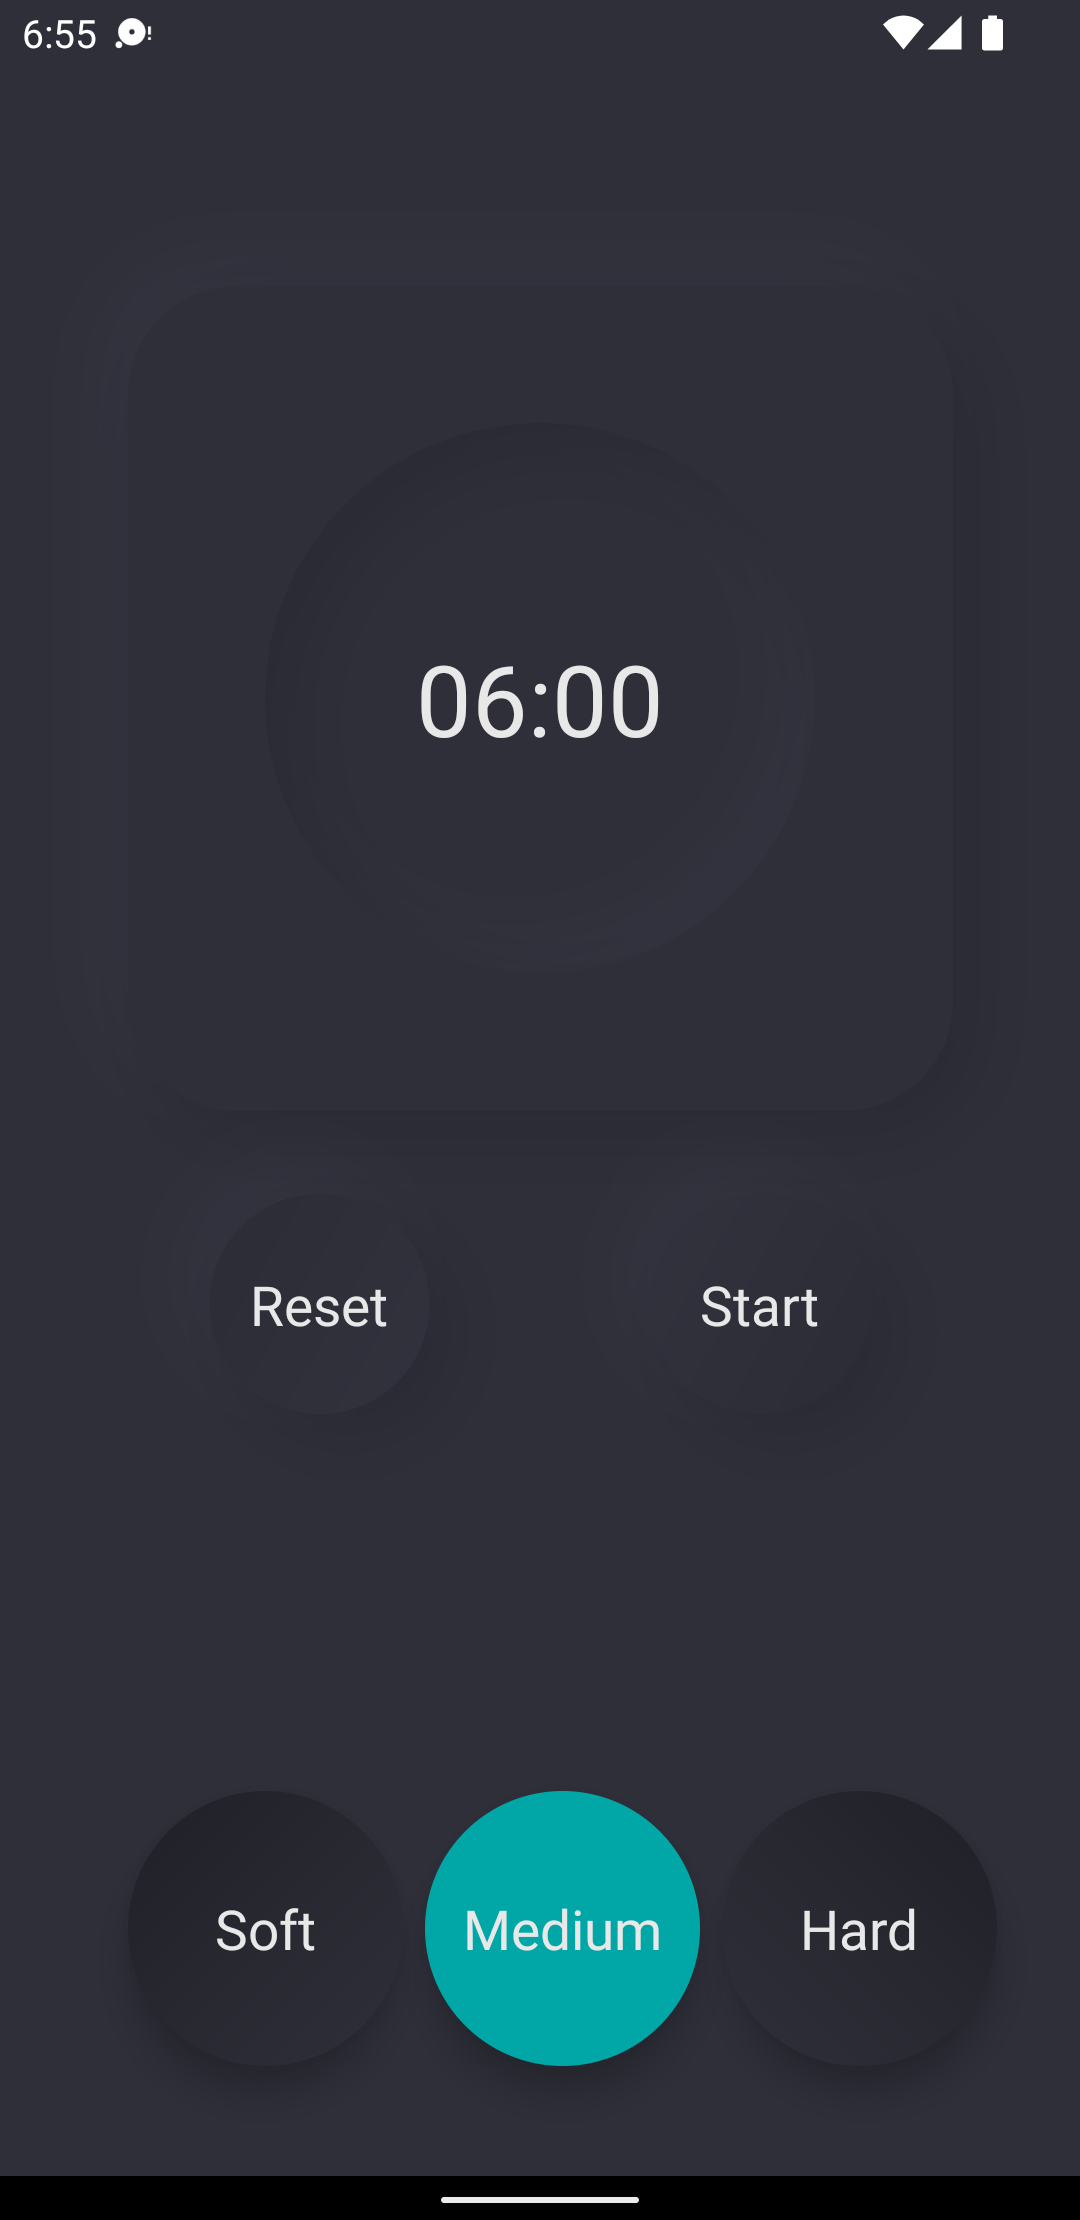
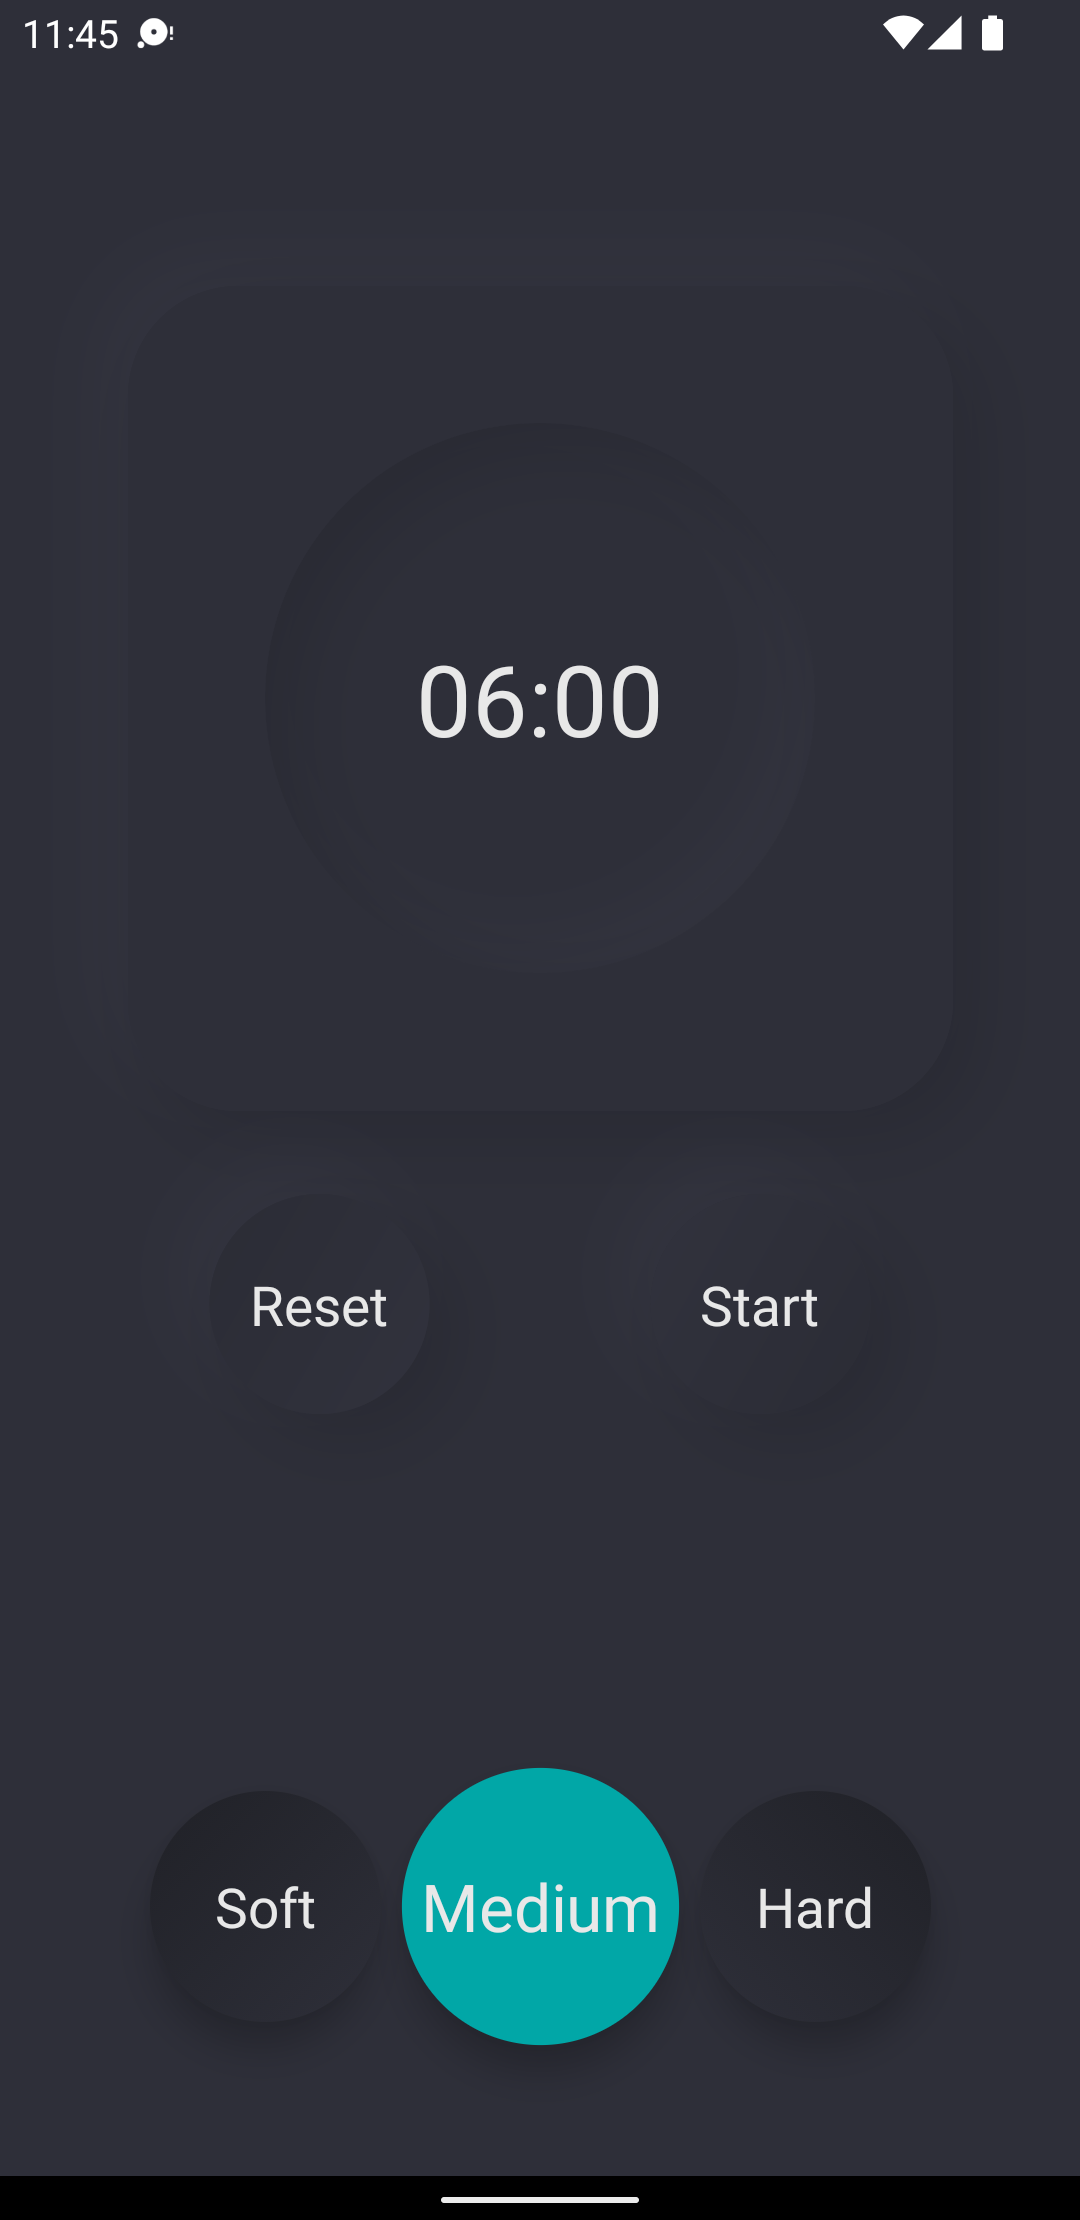
Add animation for radio buttons

diff --git a/app/src/main/java/com/tarikyasar/eggtimer/MainActivity.kt b/app/src/main/java/com/tarikyasar/eggtimer/MainActivity.kt
@@ -1,14 +1,18 @@
 package com.tarikyasar.eggtimer
 
+import android.annotation.SuppressLint
 import android.app.AlertDialog
 import android.media.MediaPlayer
 import androidx.appcompat.app.AppCompatActivity
 import android.os.Bundle
 import android.os.CountDownTimer
+import android.view.MotionEvent
+import android.view.View
+import android.view.animation.Animation
+import android.view.animation.AnimationUtils
 import com.borutsky.neumorphism.NeumorphicFrameLayout
 import com.tarikyasar.eggtimer.databinding.ActivityMainBinding
 import com.tarikyasar.eggtimer.utils.TimeUtils
-import java.text.SimpleDateFormat
 
 class MainActivity : AppCompatActivity() {
 
@@ -23,12 +27,40 @@ class MainActivity : AppCompatActivity() {
     private lateinit var timer: CountDownTimer
     private lateinit var mediaPlayer: MediaPlayer
 
+    // First one is previously selected radio button
+    // Second one is currently selected radio button
+    private var radioButtonStates =
+        mutableListOf(R.id.radioButtonMediumCooked, R.id.radioButtonMediumCooked)
+
+    // Animations
+    private var scaleAnimationsStartButton = mutableListOf<Animation>()
+    private var scaleAnimationsStopButton = mutableListOf<Animation>()
+    private lateinit var scaleUpRadioButton: Animation
+    private lateinit var scaleDownRadioButton: Animation
+
+    @SuppressLint("ClickableViewAccessibility")
     override fun onCreate(savedInstanceState: Bundle?) {
         super.onCreate(savedInstanceState)
         binding = ActivityMainBinding.inflate(layoutInflater)
         setContentView(binding.root)
+
+        // Initialize media player
         mediaPlayer = MediaPlayer.create(this@MainActivity, R.raw.alarm_sound)
         mediaPlayer.isLooping = true
+
+        // Initialize animations
+        scaleAnimationsStartButton = mutableListOf(
+            AnimationUtils.loadAnimation(this, R.anim.scale_up),
+            AnimationUtils.loadAnimation(this, R.anim.scale_down)
+        )
+        scaleAnimationsStopButton = mutableListOf(
+            AnimationUtils.loadAnimation(this, R.anim.scale_up),
+            AnimationUtils.loadAnimation(this, R.anim.scale_down)
+        )
+        scaleUpRadioButton = AnimationUtils.loadAnimation(this, R.anim.scale_up)
+        scaleDownRadioButton = AnimationUtils.loadAnimation(this, R.anim.scale_down)
+
+        binding.radioButtonMediumCooked.startAnimation(scaleUpRadioButton)
 
         // Create custom alert dialog
         val builder = AlertDialog.Builder(
@@ -44,34 +76,55 @@ class MainActivity : AppCompatActivity() {
         }
         builder.setCanceledOnTouchOutside(false)
 
-        binding.buttonStart.setOnClickListener {
-            if (timerState != TimerStates.STARTED) {
-                timer = object : CountDownTimer(cookTime * 60000, 1000) {
-                    override fun onTick(millisUntilFinished: Long) {
-                        binding.tvTimer.text = TimeUtils.formatTime(millisUntilFinished)
+        binding.buttonStart.setOnTouchListener { _, event ->
+            if (event?.action == MotionEvent.ACTION_UP) {
+                binding.buttonStart.startAnimation(scaleAnimationsStartButton[0])
+
+                if (timerState != TimerStates.STARTED) {
+                    timer = object : CountDownTimer(cookTime * 60000, 1000) {
+                        override fun onTick(millisUntilFinished: Long) {
+                            binding.tvTimer.text = TimeUtils.formatTime(millisUntilFinished)
+                        }
+
+                        override fun onFinish() {
+                            builder.show()
+                            mediaPlayer.start()
+                        }
                     }
 
-                    override fun onFinish() {
-                        builder.show()
-                        mediaPlayer.start()
-                    }
+                    timer.start()
+                    timerState = TimerStates.STARTED
+                    binding.radioGroupEggCookType.isActivated = false
+                    binding.buttonStart.state = NeumorphicFrameLayout.State.CONCAVE
+                    binding.buttonStop.state = NeumorphicFrameLayout.State.CONVEX
                 }
-
-                timer.start()
-                timerState = TimerStates.STARTED
-                binding.radioGroupEggCookType.isActivated = false
-                binding.buttonStart.state = NeumorphicFrameLayout.State.CONCAVE
-                binding.buttonStop.state = NeumorphicFrameLayout.State.CONVEX
+            } else if (event?.action == MotionEvent.ACTION_DOWN) {
+                binding.buttonStart.startAnimation(scaleAnimationsStartButton[1])
             }
+
+            true
         }
 
-        binding.buttonStop.setOnClickListener {
-            if (this::timer.isInitialized && timerState != TimerStates.STOPPED) {
-                resetTimer()
+        binding.buttonStop.setOnTouchListener { _, event ->
+            if (event?.action == MotionEvent.ACTION_UP) {
+                binding.buttonStop.startAnimation(scaleAnimationsStopButton[0])
+
+                if (this@MainActivity::timer.isInitialized && timerState != TimerStates.STOPPED) {
+                    resetTimer()
+                }
+            } else if (event?.action == MotionEvent.ACTION_DOWN) {
+                binding.buttonStop.startAnimation(scaleAnimationsStopButton[1])
             }
+
+            true
         }
 
         binding.radioGroupEggCookType.setOnCheckedChangeListener { _, checkedId ->
+            radioButtonStates[0] = radioButtonStates[1]
+            radioButtonStates[1] = checkedId
+
+            updateRadioButtonAnimations(radioButtonStates)
+
             when (checkedId) {
                 R.id.radioButtonSoftCooked -> {
                     cookTime = eggMap[EggCookTypes.SOFT_BOILED]!!
@@ -80,6 +133,7 @@ class MainActivity : AppCompatActivity() {
                 R.id.radioButtonMediumCooked -> {
                     cookTime = eggMap[EggCookTypes.MEDIUM_BOILED]!!
                     binding.tvTimer.text = TimeUtils.formatTime(cookTime * 60000)
+
                 }
                 R.id.radioButtonHardCooked -> {
                     cookTime = eggMap[EggCookTypes.HARD_BOILED]!!
@@ -88,6 +142,34 @@ class MainActivity : AppCompatActivity() {
             }
 
             resetTimer()
+        }
+    }
+
+    private fun updateRadioButtonAnimations(
+        radioButtonStates: List<Int>
+    ) {
+        when (radioButtonStates[0]) {
+            R.id.radioButtonSoftCooked -> binding.radioButtonSoftCooked.startAnimation(
+                scaleDownRadioButton
+            )
+            R.id.radioButtonMediumCooked -> binding.radioButtonMediumCooked.startAnimation(
+                scaleDownRadioButton
+            )
+            R.id.radioButtonHardCooked -> binding.radioButtonHardCooked.startAnimation(
+                scaleDownRadioButton
+            )
+        }
+
+        when (radioButtonStates[1]) {
+            R.id.radioButtonSoftCooked -> binding.radioButtonSoftCooked.startAnimation(
+                scaleUpRadioButton
+            )
+            R.id.radioButtonMediumCooked -> binding.radioButtonMediumCooked.startAnimation(
+                scaleUpRadioButton
+            )
+            R.id.radioButtonHardCooked -> binding.radioButtonHardCooked.startAnimation(
+                scaleUpRadioButton
+            )
         }
     }
 
